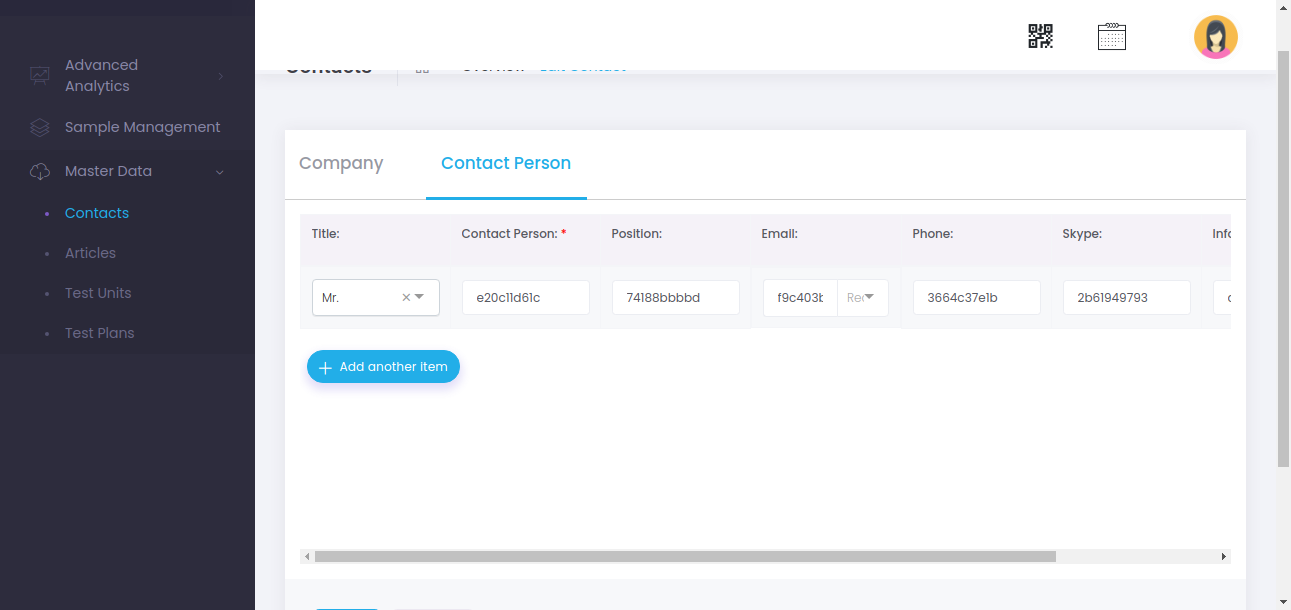
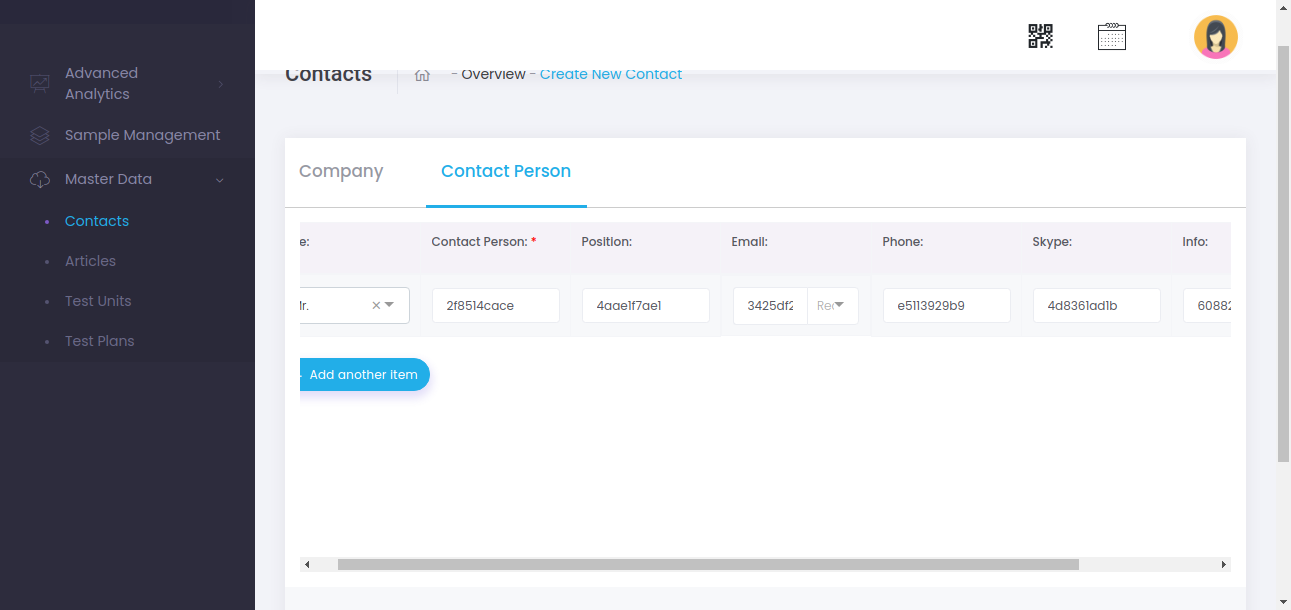
fails in get persons table data

diff --git a/ui_testing/pages/contact_page.py b/ui_testing/pages/contact_page.py
@@ -286,13 +286,11 @@ class Contact(Contacts):
             self.base_selenium.click(element='contact:add_another_item')
 
         contact_persons_table_records = self.base_selenium.get_table_rows(element='contact:contact_persons_table')
-        
-        if create == False or indexToEdit == -1:
+
+        if not create or indexToEdit == -1:
             indexToEdit = len(contact_persons_table_records)-1
             contact_persons_table_records[indexToEdit].click()
             self.sleep_small()
-
-        contact_persons_table_records = self.base_selenium.get_table_rows(element='contact:contact_persons_table')
 
         row_data = self.base_selenium.get_row_cells_elements_related_to_header(
             row=contact_persons_table_records[indexToEdit], table_element='contact:contact_persons_table')
@@ -329,11 +327,9 @@ class Contact(Contacts):
         
         self.info(' Set contact person info : {}'.format(info))
         self.base_selenium.update_item_value(item=row_data['Info:'], item_text=info)
-        self.sleep_small()
 
         self.info('Acquire contact persons data')
         contact_person_data = self.get_contact_persons_data(navigate_to_person_page=False)
-        self.sleep_small()
         if save:
             self.save(save_btn='contact:save')
 
@@ -342,11 +338,12 @@ class Contact(Contacts):
     def get_contact_persons_data(self, navigate_to_person_page=True):
         if navigate_to_person_page:
             self.get_contact_persons_page()
+
         contact_persons_arr = []
         webdriver.ActionChains(self.base_selenium.driver).send_keys(Keys.ESCAPE).perform()
         self.info('Collecting persons data')
         contact_persons_table_records = self.base_selenium.get_table_rows(element='contact:contact_persons_table')
-        if not self.check_contact_persons_table_is_empty():
+        if len(contact_persons_table_records) >= 1:
             for person in contact_persons_table_records:
                 row_data = self.base_selenium.get_row_cells_elements_related_to_header(
                     row=person, table_element='contact:contact_persons_table')
@@ -359,7 +356,8 @@ class Contact(Contacts):
                     'skype': row_data['Skype:'].text,
                     'info': row_data['Info:'].text
                 })
-                    
+        else:
+            self.info("----- contact persons table is empty")
         return contact_persons_arr
 
     def get_contact_persons_count(self):

diff --git a/ui_testing/testcases/basic_tests/test05_contacts.py b/ui_testing/testcases/basic_tests/test05_contacts.py
@@ -178,8 +178,6 @@ class ContactsTestCases(BaseTest):
         self.info('acquire contact data to compare it after updating the persons')
         contact_data = self.contact_page.get_full_contact_data()
 
-        self.info('Open contact persons page')
-        self.contact_page.get_contact_persons_page()
         self.info('add new record to contact persons')
         contact_persons_after_update = self.contact_page.create_update_contact_person(save=True)
 
@@ -524,23 +522,18 @@ class ContactsTestCases(BaseTest):
 
         LIMS-6491
         """
-        self.info("create contact with Mr.")
+        self.info("create contact")
         contact_data = self.contact_page.create_update_contact(save=False, contact_persons=False)
+        self.info('Open contact persons page')
         self.contact_page.get_contact_persons_page()
-        self.contact_page.create_update_contact_person(title='Mr.', save=True)
-        self.contacts_page.sleep_small()
-        self.contacts_page.search_find_row_open_edit_page(contact_data['Contact Name'])
-        self.contact_page.get_contact_persons_page()
-        contact_person_data = self.contact_page.get_contact_persons_data()
-        self.info('Asserting the title was saved successfully as Mr.')
+        self.info('Create contact person with Mr.')
+        contact_person_data = self.contact_page.create_update_contact_person(title='Mr.', save=False)
+        self.info('Asserting the title set to  Mr.')
         self.assertEqual(contact_person_data[0]['title'], 'Mr.')
-
-        self.info("update it to be Ms")
-        self.contact_page.create_update_contact_person(create=False, title='Ms', save=True)
+        self.info("update Title to be Ms")
+        self.contact_page.create_update_contact_person(create=False, title='Ms', save=True, indexToEdit=0)
         self.contact_page.sleep_small()
-        self.contacts_page.get_contacts_page()
         self.contacts_page.search_find_row_open_edit_page(contact_data['Contact Name'])
-        self.contact_page.get_contact_persons_page()
         new_contact_person_data = self.contact_page.get_contact_persons_data()
         self.info('Asserting the title was changed successfully to Ms')
         self.assertEqual(new_contact_person_data[0]['title'], 'Ms')

diff --git a/ui_testing/pages/base_selenium.py b/ui_testing/pages/base_selenium.py
@@ -683,8 +683,9 @@ class BaseSelenium:
         cells_elements = {}
         headers = self.get_table_head_elements(element=table_element)
         headers_text = [header.text for header in headers]
+        time.sleep(5)
+        import ipdb;ipdb.set_trace()
         row_cells = self.get_row_cells(row=row)
-
         for column_value in headers_text:
             cells_elements[column_value] = row_cells[headers_text.index(column_value)]
 
